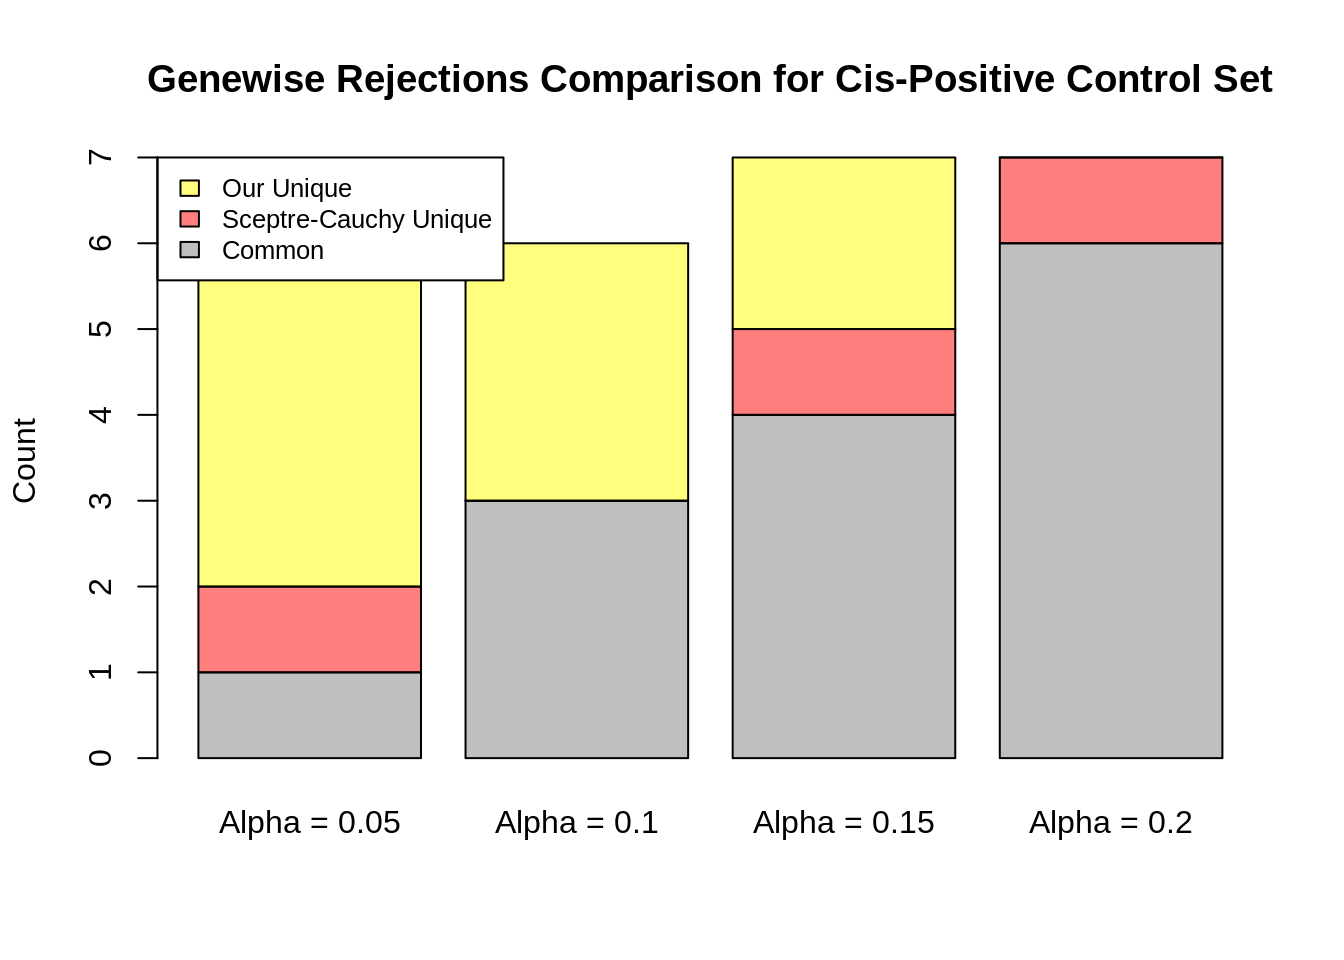
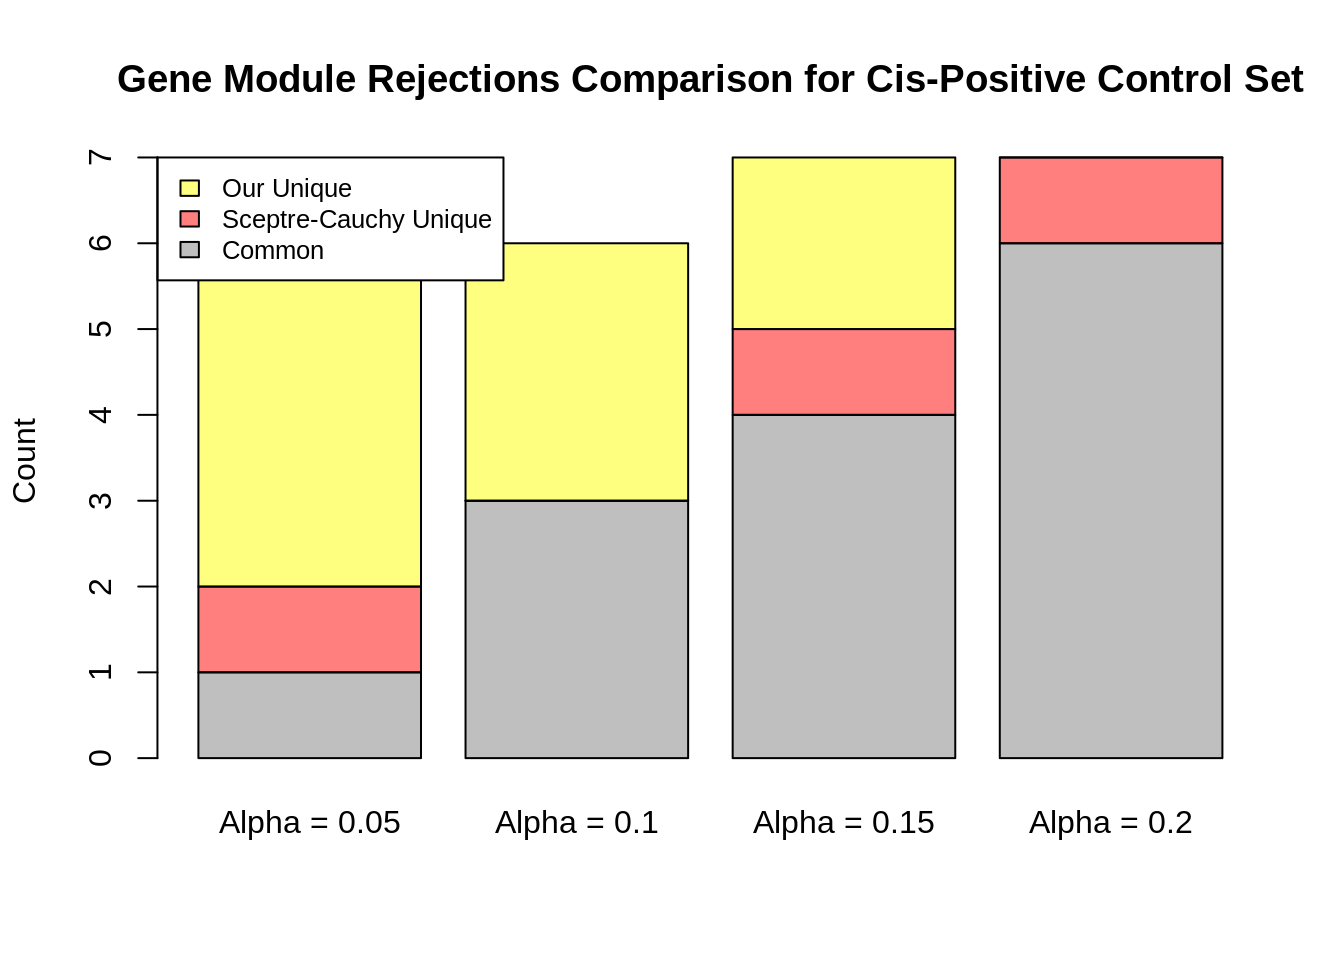
Build site.

Changed region(s): [[0.0625, 0.0625, 0.9688, 0.125]]

diff --git a/docs/new_model.html b/docs/new_model.html
@@ -516,16 +516,16 @@ output/both_trans_author_filtered_cell/results_run_calibration_check.rds
 <div class="panel panel-default">
 <div class="panel-heading">
 <p class="panel-title">
-<a data-toggle="collapse" data-parent="#workflowr-checks" href="#strongRepositoryversionstrongahrefhttpsgithubcomjliucxsceptretreea9120fc8b5c280a95a6f5d4e8275a9596d2b35c4targetblanka9120fca"> <span class="glyphicon glyphicon-ok text-success" aria-hidden="true"></span> <strong>Repository version:</strong> <a href="https://github.com/jliucx/sceptre/tree/a9120fc8b5c280a95a6f5d4e8275a9596d2b35c4" target="_blank">a9120fc</a> </a>
+<a data-toggle="collapse" data-parent="#workflowr-checks" href="#strongRepositoryversionstrongahrefhttpsgithubcomjliucxsceptretreee9e8971257edc2a780574abc6467c4793818cfc7targetblanke9e8971a"> <span class="glyphicon glyphicon-ok text-success" aria-hidden="true"></span> <strong>Repository version:</strong> <a href="https://github.com/jliucx/sceptre/tree/e9e8971257edc2a780574abc6467c4793818cfc7" target="_blank">e9e8971</a> </a>
 </p>
 </div>
[2 lines of base64/hex data omitted]
 <div class="panel-body">
 <p>
 Great! You are using Git for version control. Tracking code development and connecting the code version to the results is critical for reproducibility.
 </p>
 <p>
-The results in this page were generated with repository version <a href="https://github.com/jliucx/sceptre/tree/a9120fc8b5c280a95a6f5d4e8275a9596d2b35c4" target="_blank">a9120fc</a>. See the <em>Past versions</em> tab to see a history of the changes made to the R Markdown and HTML files.
+The results in this page were generated with repository version <a href="https://github.com/jliucx/sceptre/tree/e9e8971257edc2a780574abc6467c4793818cfc7" target="_blank">e9e8971</a>. See the <em>Past versions</em> tab to see a history of the changes made to the R Markdown and HTML files.
 </p>
 <p>
 Note that you need to be careful to ensure that all relevant files for the analysis have been committed to Git prior to generating the results (you can use <code>wflow_publish</code> or <code>wflow_git_commit</code>). workflowr only checks the R Markdown file, but you know if there are other scripts or data files that it depends on. Below is the status of the Git repository when the results were generated:
@@ -644,6 +644,40 @@ Message
 </tr>
 </thead>
 <tbody>
+<tr>
+<td>
+Rmd
+</td>
+<td>
+<a href="https://github.com/jliucx/sceptre/blob/e9e8971257edc2a780574abc6467c4793818cfc7/analysis/new_model.Rmd" target="_blank">e9e8971</a>
+</td>
+<td>
+jliucx
+</td>
+<td>
+2025-01-07
+</td>
+<td>
+add skew normal approximation
+</td>
+</tr>
+<tr>
+<td>
+html
+</td>
+<td>
+<a href="https://rawcdn.githack.com/jliucx/sceptre/d8d04addff6e4fa172198e078fd1eba6cb67f01a/docs/new_model.html" target="_blank">d8d04ad</a>
+</td>
+<td>
+jliucx
+</td>
+<td>
+2025-01-07
+</td>
+<td>
+Build site.
+</td>
+</tr>
 <tr>
 <td>
 Rmd
@@ -1767,7 +1801,8 @@ jliucx
 </table>
 </div>
 </div>
-<p><strong>Test on positive control set</strong> The positive control set is composed of two parts:</p>
+<p><strong>Test on positive control set</strong></p>
+<p>The positive control set is composed of two parts:</p>
 <ol style="list-style-type: decimal">
 <li>Trans-regulartary elements: (rs12784232, rs35531439, rs524137, rs73660574, rs79755767) paired with all gene modules.</li>
 <li>Cis-regulartary elements paired with gene modules that contains the target.</li>
@@ -1854,7 +1889,7 @@ barplot(combined_counts,
                 rgb(1, 0, 0, 0.5),         # Red with 50% transparency
                 rgb(1, 1, 0, 0.5)), # Grey = Common, Red = Sceptre unique, Yellow = Gene-wise unique
         names.arg = paste(&quot;Alpha =&quot;, alpha_values),
-        main = &quot;Genewise Rejections Comparison for Positive Control Set&quot;,
+        main = &quot;Gene Module Rejections Comparison for Positive Control Set&quot;,
         xlab = NULL,
         ylab = &quot;Count&quot;,
         legend.text = c(&quot;Common&quot;, &quot;Sceptre-Cauchy Unique&quot;, &quot;Our Unique&quot;),
@@ -1953,7 +1988,7 @@ barplot(combined_counts,
                 rgb(1, 0, 0, 0.5),         # Red with 50% transparency
                 rgb(1, 1, 0, 0.5)), # Grey = Common, Red = Sceptre unique, Yellow = Gene-wise unique
         names.arg = paste(&quot;Alpha =&quot;, alpha_values),
-        main = &quot;Genewise Rejections Comparison for Cis-Positive Control Set&quot;,
+        main = &quot;Gene Module Rejections Comparison for Cis-Positive Control Set&quot;,
         xlab = NULL,
         ylab = &quot;Count&quot;,
         legend.text = c(&quot;Common&quot;, &quot;Sceptre-Cauchy Unique&quot;, &quot;Our Unique&quot;),
@@ -2476,40 +2511,6 @@ jliucx
 </div>
 <div id="scatter-plots-to-compare-gene-wise-p-values-of-sceptre-glm-and-our-t-test" class="section level2" number="2.2">
 <h2 number="2.2"><span class="header-section-number">2.2</span> Scatter plots to compare gene wise P values of sceptre glm and our t test</h2>
-<pre class="r"><code># Define indices
-set.seed(0)
-
-indices &lt;- sample(1:nrow(sceptre_wide),4,replace=F)
-
-par(mfrow = c(2, 2),pty = &quot;s&quot;)
-
-# Loop through indices for scatter and QQ plots
-for (index in indices) {
-  # Extract vectors for the current index
-  vector1 &lt;- as.vector(as.matrix(gene_wise_p[index, ]))
-  vector2 &lt;- as.vector(as.matrix(sceptre_wide[index, ]))
-  
-  # Filter out NA values
-  valid_indices &lt;- !is.na(vector1) &amp; !is.na(vector2)
-  filtered_vector1 &lt;- vector1[valid_indices]
-  filtered_vector2 &lt;- vector2[valid_indices]
-  
-  # Scatter Plot
-  plot(
-    filtered_vector1, filtered_vector2,
-    xlab = &quot;Gene Wise P Values from t test&quot;,
-    ylab = &quot;Sceptre Wide P Values&quot;,
-    main = paste0(&quot;Scatter plot for &quot;,index, &quot; th perturbation&quot;),
-    pch = 16,
-    asp = 1,
-    xlim=c(0,1),
-    ylim=c(0,1),
-    col = &quot;blue&quot;,
-    cex = 0.7
-  )
-  
-
-}</code></pre>
 <p><img src="figure/new_model.Rmd/unnamed-chunk-20-1.png" width="768" style="display: block; margin: auto;" /></p>
 <p>
 <button type="button" class="btn btn-default btn-xs btn-workflowr btn-workflowr-fig" data-toggle="collapse" data-target="#fig-unnamed-chunk-20-1">
@@ -2603,21 +2604,6 @@ jliucx
 </table>
 </div>
 </div>
-<pre class="r"><code># Example loop for scatter plots
-for (index in indices) {  # Randomly pick 6 indices
-  plot(
-    sort(filtered_vector1), sort(filtered_vector2),
-    xlab = &quot;Gene Wise P Values from t test&quot;,
-    ylab = &quot;Sceptre Wide P Values&quot;,
-    main = paste(&quot;QQ plot for &quot;,index, &quot;th perturbation&quot;),
-    asp = 1,  # Ensure aspect ratio is 1:1
-    xlim = c(0, 1),
-    ylim = c(0, 1),
-    pch = 16,
-    col = &quot;blue&quot;,
-    cex = 0.7
-  )
-}</code></pre>
 <p><img src="figure/new_model.Rmd/unnamed-chunk-20-2.png" width="768" style="display: block; margin: auto;" /></p>
 <p>
 <button type="button" class="btn btn-default btn-xs btn-workflowr btn-workflowr-fig" data-toggle="collapse" data-target="#fig-unnamed-chunk-20-2">
@@ -2678,8 +2664,6 @@ jliucx
 </table>
 </div>
 </div>
-<pre class="r"><code># Reset layout to single plot
-par(mfrow = c(1, 1))</code></pre>
 <p><strong>Notes:</strong></p>
 <p><em>1. In the above plot, the perturbations are randomly chosen</em> <em>2. We calculate the p values for two-sided t-test by</em></p>
 <p><span class="math inline">\(min(2 \times\frac{min(\#left,\#right)}{\#permutation},1)\)</span></p>
@@ -2691,21 +2675,6 @@ par(mfrow = c(1, 1))</code></pre>
 <div id="check-the-null-distribution-of-the-test-statistics-for-each-gene-and-see-if-the" class="section level3" number="2.3.1">
 <h3 number="2.3.1"><span class="header-section-number">2.3.1</span> Check the null distribution of the test statistics for each gene and see if the</h3>
 <p>test statistics are always non-centered.</p>
-<pre class="r"><code>par(mfrow = c(3, 2))
-set.seed(0)
-gene_idx &lt;- sample(1:dim(gene_wise_test_tensor)[2],6)
-for (i in gene_idx){
-value &lt;- gene_wise_test_tensor[1, i, 1]
-
-# Plot the histogram
-hist(gene_wise_test_tensor[, i,1], main = paste0(&quot;Test statistics of &quot; ,dimnames(gene_wise_test_tensor)[[3]][1], &quot;-&quot;, dimnames(gene_wise_test_tensor)[[2]][i]), xlab=&quot;null test statistics&quot;, breaks=1000)
-
-# Add a vertical line to indicate the value
-abline(v = value, col = &quot;red&quot;, lwd = 2)
-
-# Optionally, add a label for the value
-text(value, par(&quot;usr&quot;)[4] * 0.9, paste(&quot;Observed:&quot;, round(value, 2)), col = &quot;red&quot;, pos = 4)
-}</code></pre>
 <p><img src="figure/new_model.Rmd/unnamed-chunk-22-1.png" width="672" style="display: block; margin: auto;" /></p>
 <p>
 <button type="button" class="btn btn-default btn-xs btn-workflowr btn-workflowr-fig" data-toggle="collapse" data-target="#fig-unnamed-chunk-22-1">
@@ -2799,8 +2768,7 @@ jliucx
 </table>
 </div>
 </div>
-<pre class="r"><code>par(mfrow = c(1, 1))</code></pre>
-<p><em>The genes are randomly chosen</em></p>
+<p><strong>The genes above are randomly chosen</strong></p>
 </div>
 <div id="compute-the-glm-test-statistics-using-the-glm-function-in-r" class="section level3" number="2.3.2">
 <h3 number="2.3.2"><span class="header-section-number">2.3.2</span> Compute the glm test statistics using the glm function in R</h3>
